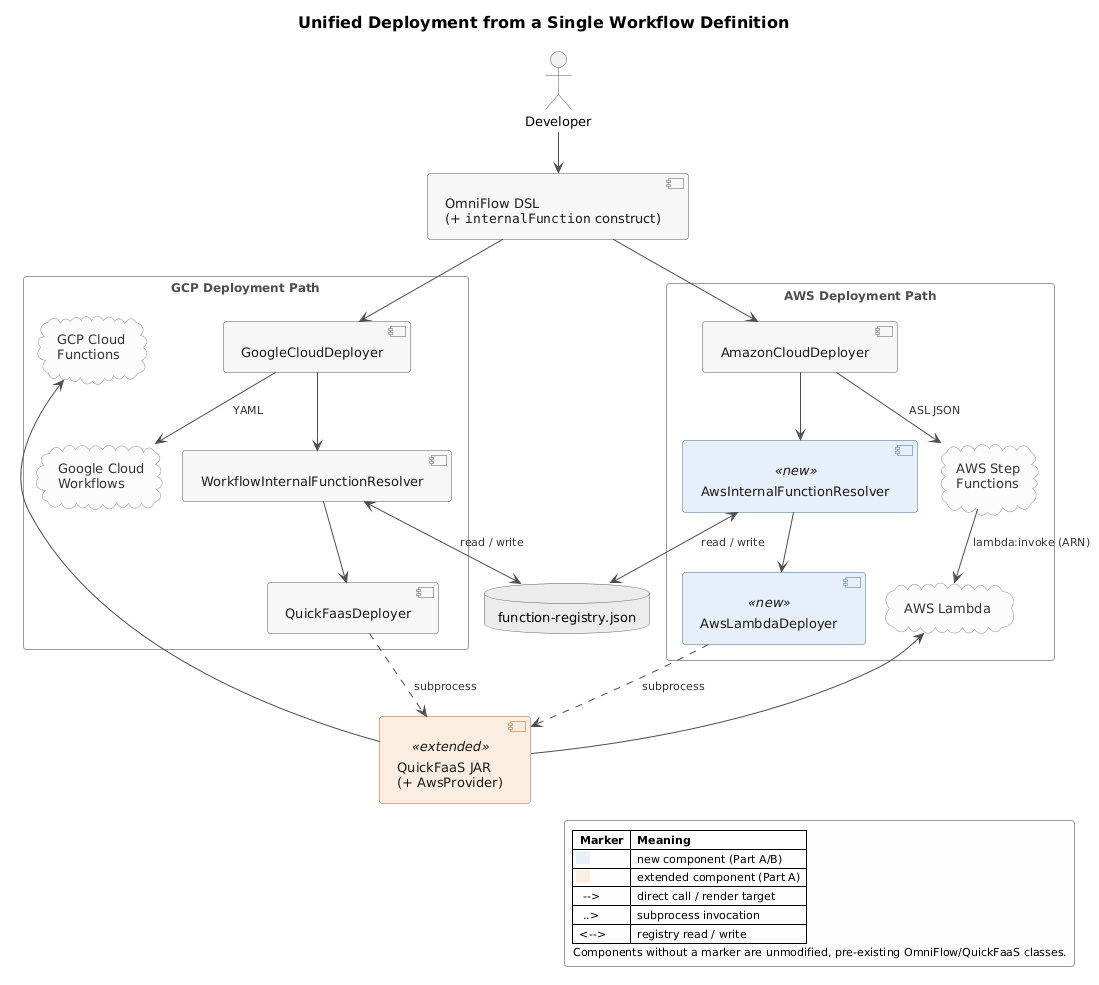
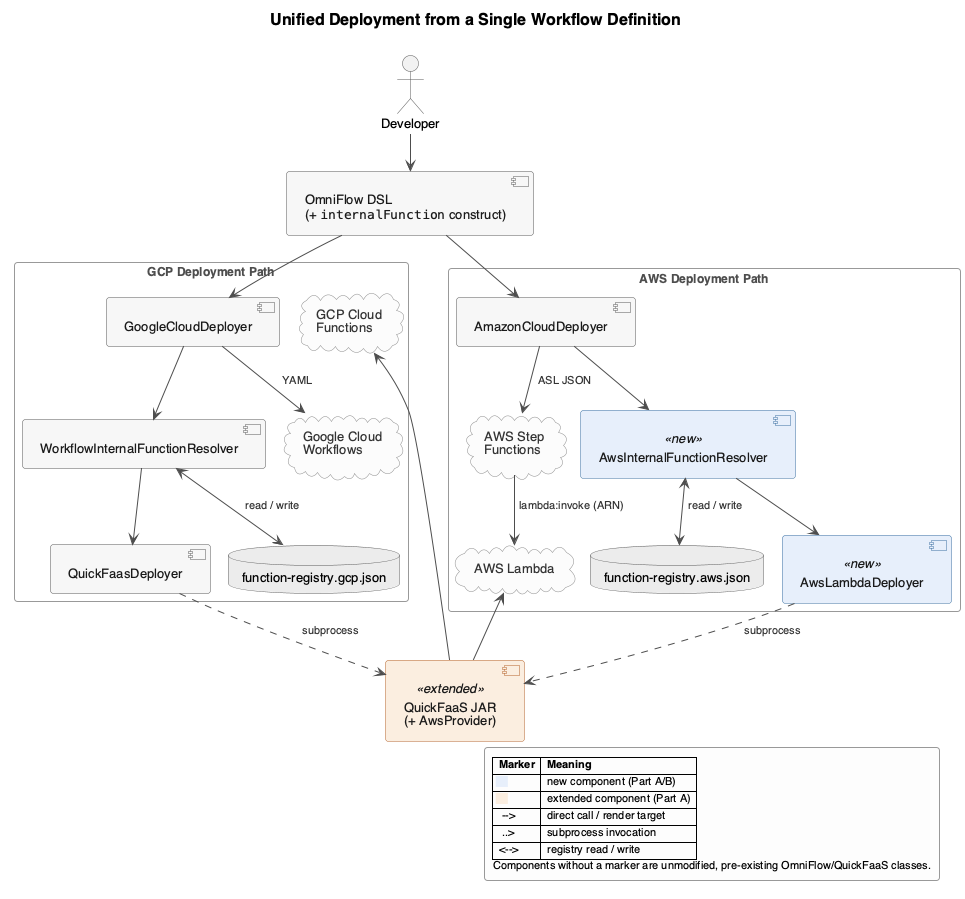
Resolve three Ch4 contradictions about the registry
- Level 1 no longer claims a hit avoids the provider: it explains that
  validation is one lookup in the region the entry records, instead of
  the all-region search of Level 2.
- The region-scope paragraph says discovery starts in the workflow's
  region and co-location is expected, not required.
- The architecture text, both registry listings and the
  architecture-after diagram show one registry file per provider. The
  listings now use cloudfunctions.net URLs for QuickFaaS-deployed GCP
  functions and full Cloud Run resource names, as the code stores them.

The diagram PNG was regenerated with PlantUML 1.2024.7 (smetana layout).
Update TODO.md.

Claude-Session: https://claude.ai/code/session_014Jgyxrv8Uvusmc3tD3iqUc

diff --git a/dissertation/Chapters/chapter3.tex b/dissertation/Chapters/chapter3.tex
@@ -21,7 +21,7 @@ In the prior state (Figure~\ref{fig:architecture-before}), OmniFlow and QuickFaa
   \label{fig:architecture-before}
 \end{figure}
 
-In the state introduced by this work (Figure~\ref{fig:architecture-after}), a single workflow definition drives both concerns. Each provider deployer delegates call resolution to a provider-specific resolver — \texttt{Workflow\allowbreak Internal\allowbreak Function\allowbreak Resolver} for GCP and \texttt{Aws\allowbreak Internal\allowbreak Function\allowbreak Resolver} for AWS — and both are backed by a shared \texttt{function-registry.json} that maps logical identifiers to concrete invocation metadata. QuickFaaS is extended with an \texttt{AwsProvider}, so a function can be deployed on demand to AWS Lambda through the same subprocess mechanism already used for GCP. Once resolved, the rendered Step Functions state machine invokes the Lambda natively by ARN. The two halves of the contribution are visible in a single view: the AWS provider inside QuickFaaS and the resolver–registry layer that unifies function and workflow deployment.
+In the state introduced by this work (Figure~\ref{fig:architecture-after}), a single workflow definition drives both concerns. Each provider deployer delegates call resolution to a provider-specific resolver — \texttt{Workflow\allowbreak Internal\allowbreak Function\allowbreak Resolver} for GCP and \texttt{Aws\allowbreak Internal\allowbreak Function\allowbreak Resolver} for AWS — and each is backed by its own registry file (\texttt{function-registry.gcp.json} and \texttt{function-registry.aws.json} by default) that maps logical identifiers to concrete invocation metadata. QuickFaaS is extended with an \texttt{AwsProvider}, so a function can be deployed on demand to AWS Lambda through the same subprocess mechanism already used for GCP. Once resolved, the rendered Step Functions state machine invokes the Lambda natively by ARN. The two halves of the contribution are visible in a single view: the AWS provider inside QuickFaaS and the resolver–registry layer that unifies function and workflow deployment.
 
 \begin{figure}[htbp]
   \centering
@@ -52,12 +52,14 @@ actual deployment is a last resort rather than a default.
 
 \begin{enumerate}
   \item \textbf{Level~1 (Registry).} The registry is consulted for the \texttt{functionRef}
-  (exact match first, then a suffix match on \texttt{"region/functionRef"}). A hit yields a binding
-  without contacting the provider, which is the common case for a function that has already been
-  deployed once. On both providers the stored endpoint is additionally validated against the live
-  resource --- the Cloud Run service on GCP, the Lambda function on AWS --- so that a stale binding
-  cannot be used silently: a changed endpoint refreshes the entry, and a deleted one removes it and
-  aborts the deployment. On GCP this validation, like the discovery of Level~2, currently covers
+  (exact match first, then a suffix match on \texttt{"region/functionRef"}). A hit is the common
+  case for a function that has already been deployed once. The stored endpoint is then validated
+  against the live resource --- the Cloud Run service on GCP, the Lambda function on AWS --- so that
+  a stale binding cannot be used silently: a changed endpoint refreshes the entry, and a deleted one
+  removes it and aborts the deployment. Validation contacts the provider, but the registry keeps it
+  cheap: an entry records where the function lives (the region inside the Lambda ARN, the full
+  resource name of the Cloud Run service), so validation is one lookup in a known place rather than
+  the search across every region that Level~2 performs. On GCP this validation, like the discovery of Level~2, currently covers
   Cloud Run services only: a binding to a first-generation Cloud Function, which is what QuickFaaS
   deploys on GCP, is trusted without a live check. This limitation is described in
   \S\ref{subsec:store-internals}.
@@ -108,14 +110,14 @@ functions are \emph{not} strictly required to share a region, and on neither pro
 developer required to declare one: on GCP a function is invoked over an HTTPS URL, so the resolver
 searches across the project's regions; on AWS, although the function is ultimately invoked by its
 region-qualified ARN, the resolver mirrors this behaviour by discovering every region enabled for
-the account (via the EC2 \texttt{DescribeRegions} API) and searching across all of them, optionally
-trying a caller-supplied preferred region first. On both providers, the fully-qualified
+the account (via the EC2 \texttt{DescribeRegions} API) and searching across all of them. On both
+providers the search starts with the region the workflow is being deployed to. The fully-qualified
 \texttt{"region/functionRef"} form exists to disambiguate a name that appears in more than one
-region, and lets the developer pin the lookup to a single region instead of scanning every one. In
-practice the
-prototype assumes the workflow and its functions in the same region, both because it is the common
-case and because same-region deployment minimises invocation latency and cross-region data-transfer
-cost, and simplifies data-residency compliance. One co-location constraint is, however, mandatory
+region, and lets the developer pin the lookup to a single region instead of scanning every one.
+Starting the search in the workflow's region reflects the expected deployment, in which the
+workflow and its functions share a region: the resolver does not require it, but same-region
+deployment minimises invocation latency and cross-region data-transfer cost, and simplifies
+data-residency compliance. One co-location constraint is, however, mandatory
 on AWS: a Lambda must reside in the same region as the S3 bucket that holds its deployment package,
 so the AWS deployer derives the effective region from that bucket
 (Chapter~\ref{cha:impl}).
@@ -212,16 +214,24 @@ Whether a call's endpoint is filled in automatically depends on who owns the tar
 A function reference (\texttt{functionRef}) is a stable logical identifier used to name a function whose endpoint is resolved through the registry (e.g., \texttt{"fraud-check"}). This identifier is used consistently across the workflow definition, the registry metadata and the deployment descriptors. It is not an endpoint, it is a name that allows OmniFlow to bind a call to the concrete endpoint during deployment.
 
 \paragraph{Function Registry.}
-The function registry is a file that contains invocation metadata only for functions resolved this way. Conceptually, it maps each such \texttt{functionRef} to the concrete values required to invoke it. These values are not written manually; when the corresponding function is deployed or updated through QuickFaaS, the integration records or refreshes the entry in the registry. Functions invoked through a literal endpoint are excluded from the registry. A minimal JSON-based structure for this registry is illustrated in Listing~\ref{lst:registry-structure}.
+The function registry is a file, one per provider, that contains invocation metadata only for functions resolved this way. Conceptually, it maps each such \texttt{functionRef} to the concrete values required to invoke it. These values are not written manually; when the corresponding function is deployed or updated through QuickFaaS, the integration records or refreshes the entry in the registry. Functions invoked through a literal endpoint are excluded from the registry. A minimal JSON-based structure for this registry is illustrated in Listing~\ref{lst:registry-structure}.
 
-\begin{lstlisting}[caption={Example structure of the function registry (registry-managed functions only).},label={lst:registry-structure},basicstyle=\ttfamily\small,breaklines=false]
+\begin{lstlisting}[caption={Example registry files, one per provider (registry-managed functions only).},label={lst:registry-structure},basicstyle=\ttfamily\footnotesize,breaklines=false]
+function-registry.gcp.json:
 {
   "updatedAt": "2026-02-12T18:40:00Z",
   "functions": {
     "fraud-check": {
       "serviceName": "fraud-check",
-      "url": "https://fraud-check-abc123-ew.a.run.app/v1/fraud-check"
-    },
+      "url": "https://europe-west1-proj.cloudfunctions.net/fraud-check"
+    }
+  }
+}
+
+function-registry.aws.json:
+{
+  "updatedAt": "2026-02-12T18:40:00Z",
+  "functions": {
     "hello-lambda-fn": {
       "serviceName": "hello-lambda-fn",
       "url": "arn:aws:lambda:eu-west-1:123456789012:function:hello-lambda-fn"

diff --git a/dissertation/Chapters/chapter4.tex b/dissertation/Chapters/chapter4.tex
@@ -75,23 +75,19 @@ call {
 External calls are unaffected by this mechanism, they continue using literal \texttt{host} and \texttt{path} values and bypass the registry resolution.
 
 \subsection{Registry File Format}
-The registry is stored as a JSON file, containing only non-secret invocation metadata. It maps each \texttt{functionRef} to the concrete values required to invoke the function (serviceName and url, where url is an HTTPS endpoint on GCP and a Lambda ARN on AWS). The registry also stores an \texttt{updatedAt} timestamp for traceability.
+Each provider has its own registry, stored as a JSON file (\texttt{function-registry.gcp.json} or \texttt{function-registry.aws.json} in the working directory by default) and containing only non-secret invocation metadata. It maps each \texttt{functionRef} to the concrete values required to invoke the function (serviceName and url, where url is an HTTPS endpoint on GCP and a Lambda ARN on AWS). The registry also stores an \texttt{updatedAt} timestamp for traceability. Listing~\ref{lst:function-registry} shows a GCP registry holding a function deployed by QuickFaaS (a first-generation Cloud Function) and a Cloud Run service found by discovery under a region-qualified key; an AWS registry has the same structure, with Lambda ARNs as \texttt{url} values.
 
-\begin{lstlisting}[language=json,caption={Function registry structure},label={lst:function-registry}]
+\begin{lstlisting}[language=json,caption={Function registry structure (GCP)},label={lst:function-registry},basicstyle=\ttfamily\footnotesize]
 {
   "updatedAt": "2026-02-15T00:00:00Z",
   "functions": {
     "fraud-check": {
       "serviceName": "fraud-check",
-      "url": "https://fraud-check-abc123-ew.a.run.app"
+      "url": "https://europe-west1-proj.cloudfunctions.net/fraud-check"
     },
     "europe-west1/risk-score": {
-      "serviceName": "risk-score",
+      "serviceName": "projects/proj/locations/europe-west1/services/risk-score",
       "url": "https://risk-score-def456-ew.a.run.app"
-    },
-    "hello-lambda-fn": {
-      "serviceName": "hello-lambda-fn",
-      "url": "arn:aws:lambda:eu-west-1:123456789012:function:hello-lambda-fn"
     }
   }
 }

diff --git a/TODO.md b/TODO.md
@@ -44,6 +44,13 @@ drift as text is edited, so search for the quoted phrases.
       endpoint change: on AWS the next deployment picks it up; on GCP first-gen it doesn't.
 - [x] Ch4's "Stale binding" edge case covers both providers, says it aborts even with a
       descriptor, and notes that stale GCP first-gen entries go undetected.
+- [x] Ch4 contradictions: Level 1 explains what the registry buys (validation is one lookup in a
+      known region, not a scan); the region-scope paragraph says the search starts in the
+      workflow's region and co-location is expected, not required; the architecture text, both
+      registry listings (now per provider, with `cloudfunctions.net` URLs for QuickFaaS-deployed
+      GCP functions and full Cloud Run resource names) and `architecture-after.puml`/`.png` show
+      one registry per provider. The PNG was rendered with the PlantUML 1.2024.7 jar and
+      `-Playout=smetana` (Graphviz isn't installed).
 
 ## 1. Blockers before submission
 
@@ -73,24 +80,12 @@ drift as text is edited, so search for the quoted phrases.
 
 ## 3. Contradictions to fix
 
-- [ ] Ch4 Level 1 says both "without contacting the provider" and "validated against the live
-      resource". Explain what the registry buys given validation: it remembers the region and gives
-      validation a target.
 - [ ] Ch5 "Deployment-Time Endpoint Resolution", step 2, says a stale entry "falls through to the
       next step", but it aborts. Also explain why a deleted function isn't redeployed even with a
       descriptor (the deletion may have been deliberate).
 - [ ] "Safe by default" now appears only in Ch4, meaning non-mutating discovery (Ch1's use, about
       secrets, is gone). Note there that AWS repairs the trust policy of a role you supply.
-- [ ] Ch4 region-scope paragraph: "no region required, all regions searched" contradicts "the
-      prototype assumes the same region".
 - [ ] Say what happens when `functionRef` differs from the descriptor's `function.name`.
-- [ ] Text still describing one shared registry: the Ch4 architecture section ("shared
-      `function-registry.json`"), and the registry listings that mix GCP and AWS entries in one file
-      (Ch4 `lst:registry-structure`, Ch5 `lst:function-registry`). Also update
-      `diagrams/architecture-after.puml` in the code repo and regenerate
-      `images/architecture/architecture-after.png`.
-- [ ] The registry listings show `a.run.app` URLs for functions deployed by QuickFaaS. On GCP these
-      are `cloudfunctions.net` URLs.
 
 ## 4. Evaluation (Ch6)
 
